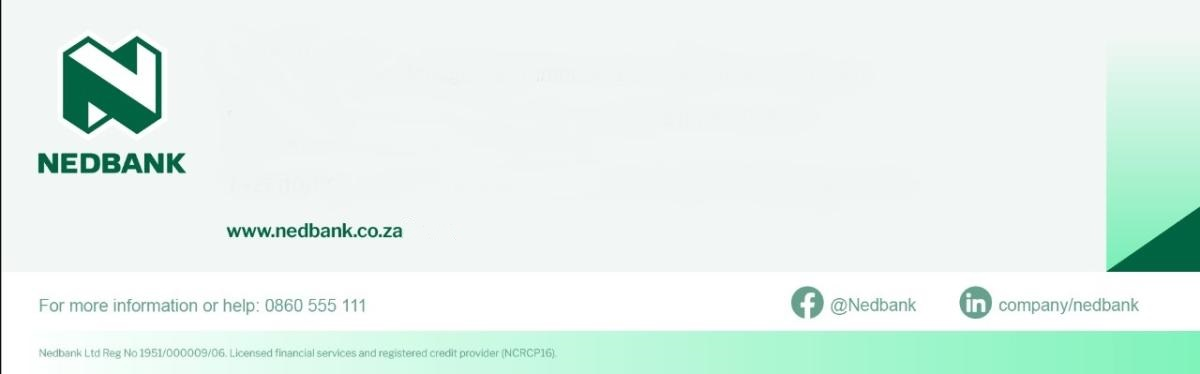
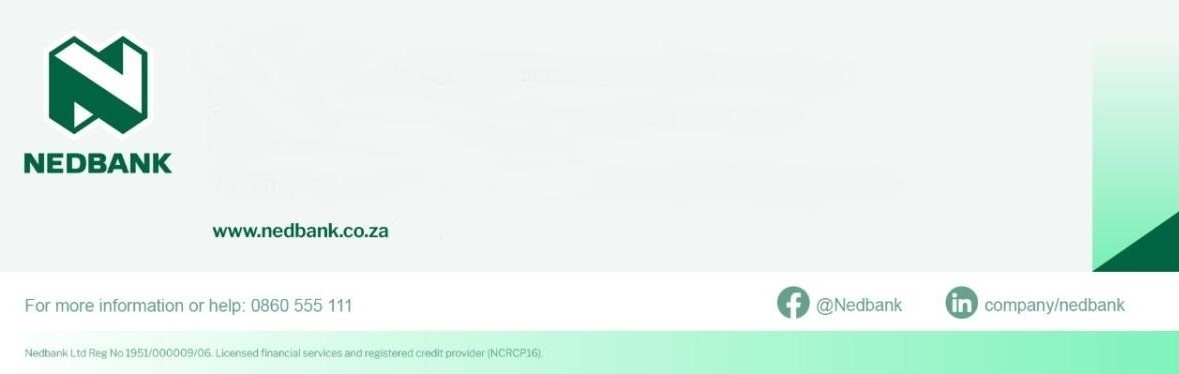
edit

diff --git a/index.html b/index.html
@@ -12,12 +12,12 @@ function generateImage(form) {
        <p style="margin-top:4px;margin-bottom:15px">[[jobTitle]]<strong> | </strong>Commercial Banking<strong> | </strong>Nedbank Limited</p>
        <p style="margin-bottom:0">[[address]]</p>
        <p style="margin-top:0">[[address2]]</p>
-       <p>T [[telNum]]&nbsp;&nbsp;&nbsp;|C [[cellNum]]&nbsp;&nbsp;&nbsp;|E [[email]]</p>
+       <p>T [[telNum]]&nbsp;&nbsp;|C [[cellNum]]&nbsp;&nbsp;|E [[email]]</p>
        <p style="font-size:20px ;">&nbsp;</p>
         </div>
         <div style="font-family: Arial, sans-serif;color: #366f5b;font-size: 9px;position: relative;padding-left: 284px;max-height: 0;position: relative;opacity: 0.999;">
         </div>
-        <img style="width:650px;height:auto" src="Images/nedB.jpg">
+        <img style="width:450px;height:auto" src="Images/nedB.jpg">
        </div>
        `
        
@@ -38,7 +38,7 @@ function generateImage(form) {
     
     document.getElementById("preview").innerHTML = myImageHtml;
 
-    html2canvas(document.getElementById("preview"), { width:650 }).then(canvas => {
+    html2canvas(document.getElementById("preview"), { width:450 }).then(canvas => {
       var image = canvas.toDataURL("image/png");
       downloadURI("data:" + image, "emailSignature.png");
     });
